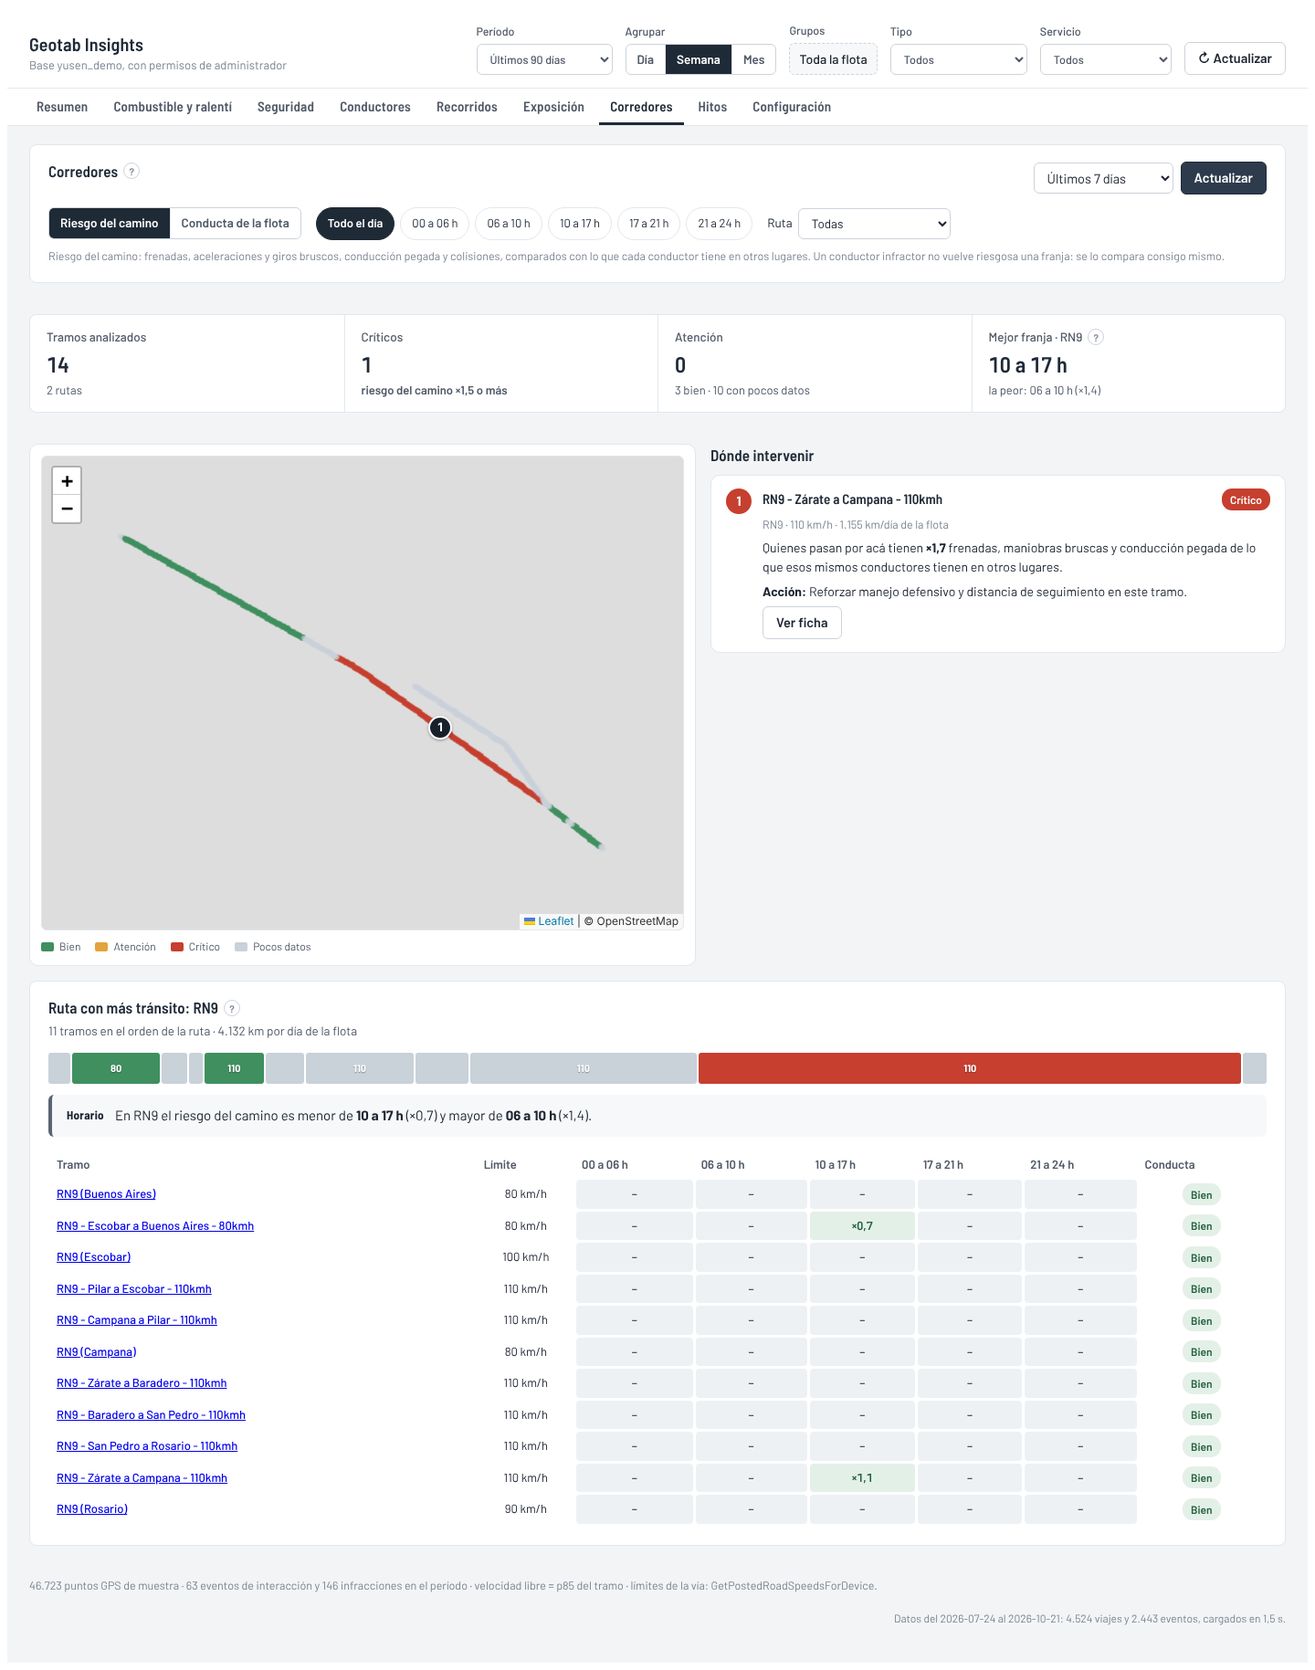
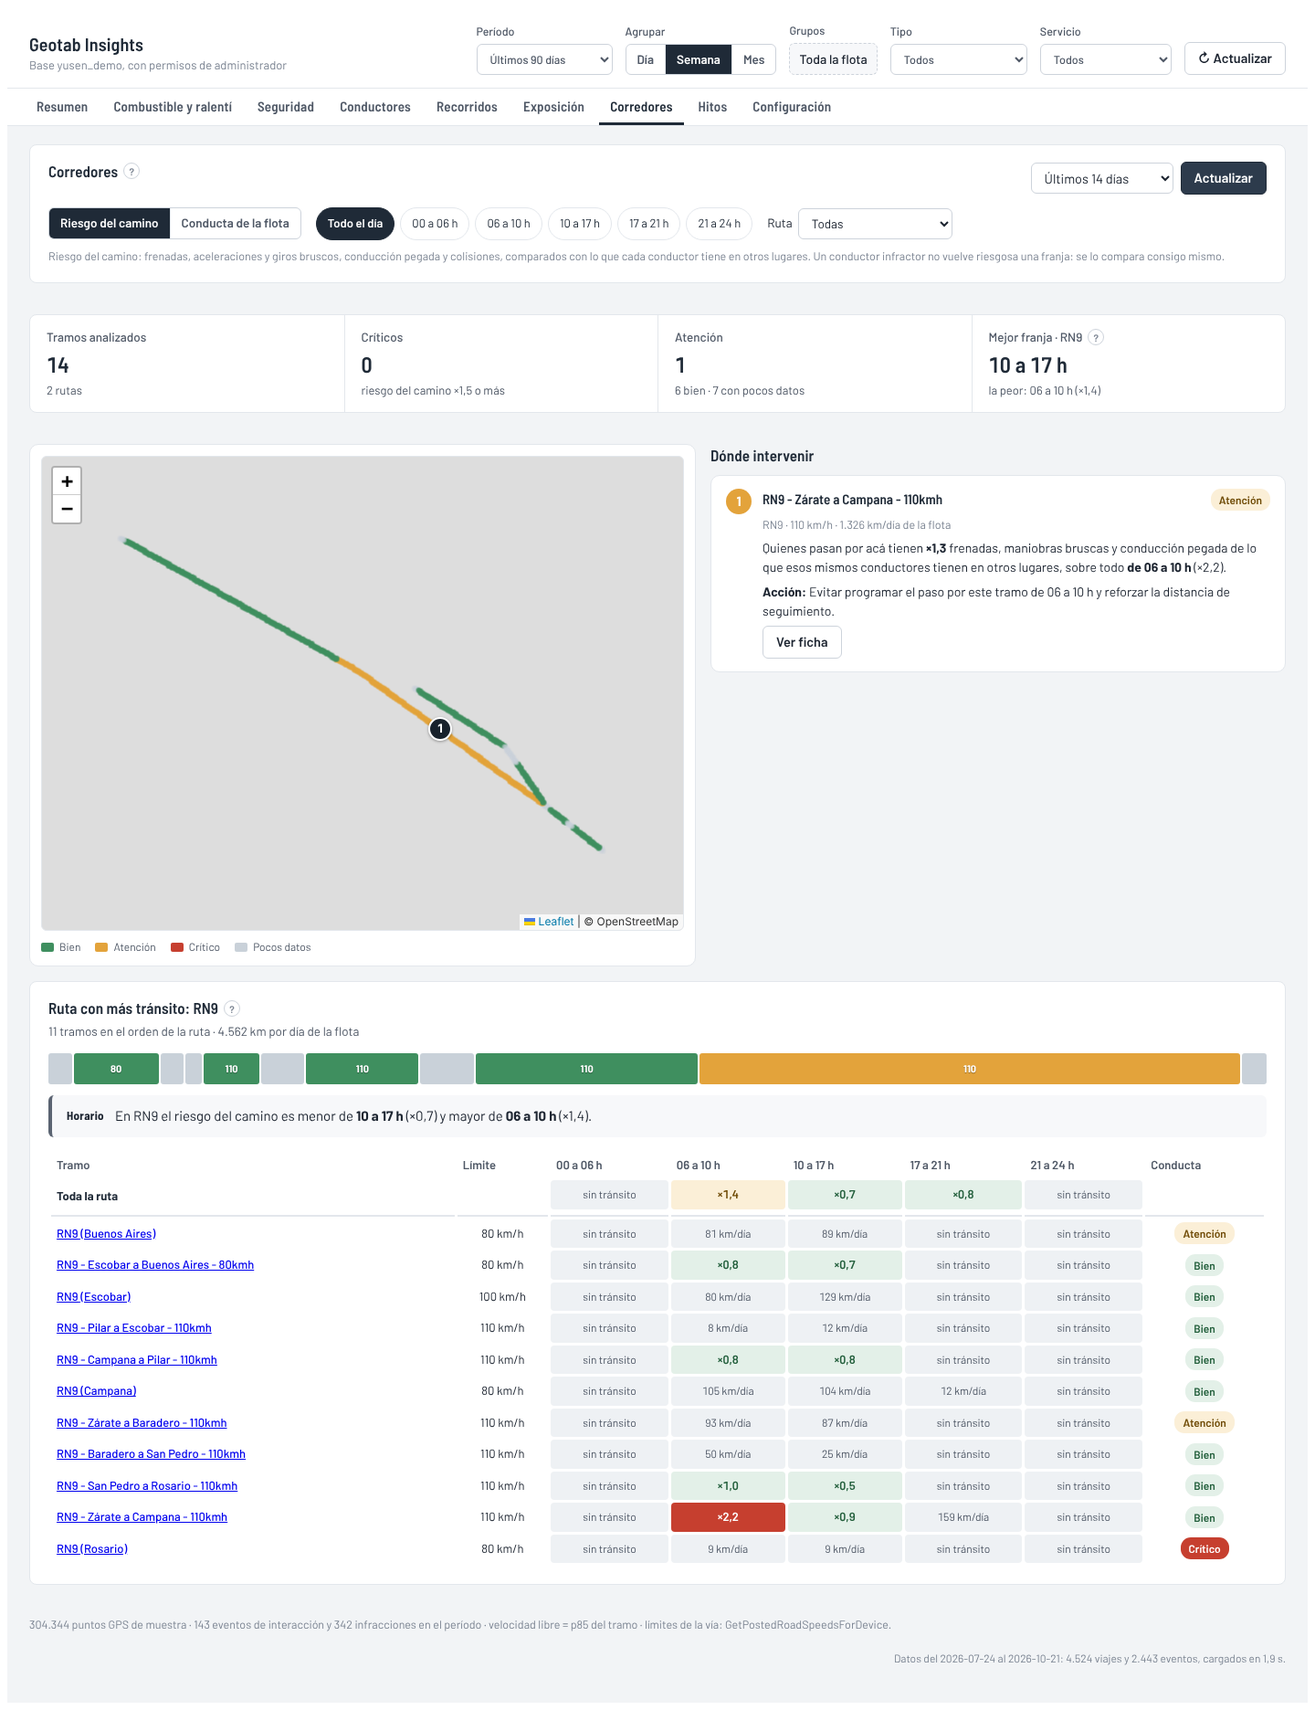
Beta Corredores: más datos en flotas chicas (15 de cada 30 min), 14 días por defecto y opción 30; punto GPS real por celda para GetAddresses; geocercas de control también por polígono (con 150 m de tolerancia) si la dirección no las trae; rutas sin geocerca partidas en sectores de ~10 km; fila 'Toda
Claude-Session: https://claude.ai/code/session_01GomakazPAm89dtzonqWZwj

diff --git a/static/js/core/roads.js b/static/js/core/roads.js
@@ -53,8 +53,9 @@
   function cellCenter(key) { const [[a, b], [c, d]] = cellBounds(key); return [(a + c) / 2, (b + d) / 2]; }
 
   // ---------- Muestreo ----------
-  function dayWindows(dk, every) {
+  function dayWindows(dk, every, win) {
     every = every || EVERY_MIN;
+    const WIN_MIN = win || 5;
     const d0 = GI.parseDayKey(dk).getTime();
     const off = (GI.parseDayKey(dk).getDate() * 7) % (every - WIN_MIN);
     const out = [];
@@ -87,6 +88,8 @@
         const km = haversineKm(p[1], p[2], q[1], q[2]);
         if ((km / dt) * 3600 > MAX_KMH) { recent = []; continue; }
         const sp = (p[3] + q[3]) / 2;
+        // punto GPS real de cada celda (para GetAddresses: uno interpolado puede caer fuera del camino)
+        if (ctx.rep) { const cq = cellOf(q[1], q[2]); if (!ctx.rep.has(cq) && q[3] > 3) ctx.rep.set(cq, [GI.round(q[1], 5), GI.round(q[2], 5)]); }
         // anda y para: la velocidad cae ≥ 25 km/h respecto del máximo de los últimos 30 s
         recent.push([p[0], p[3]]);
         while (recent.length && q[0] - recent[0][0] > 30000) recent.shift();
@@ -102,7 +105,6 @@
           const f = (st + 0.5) / steps;
           const la = p[1] + (q[1] - p[1]) * f, ln = p[2] + (q[2] - p[2]) * f;
           const cell = cellOf(la, ln);
-          if (ctx.rep && !ctx.rep.has(cell)) ctx.rep.set(cell, [GI.round(la, 5), GI.round(ln, 5)]);
           const k = bk + "|" + cell + "|" + h;
           let row = acc.get(k);
           if (!row) acc.set(k, (row = [bk, cell, h, 0, 0, 0, 0, new Array(HBINS).fill(0), 0, 0, 0, 0]));
@@ -158,7 +160,7 @@
   }
 
   async function fetchDay(api, dk, o, onWindow) {
-    const wins = dayWindows(dk, o.every).filter(w => w[0] < Date.now());
+    const wins = dayWindows(dk, o.every, o.win).filter(w => w[0] < Date.now());
     const d0 = GI.parseDayKey(dk).getTime(), d1 = d0 + 24 * 3600000;
     let limitAt = null;
     if (o.activeDevs && o.posted !== false) {
@@ -193,7 +195,7 @@
       if (di == null) { di = devs.length; devs.push(r[0]); devIdx.set(r[0], di); }
       rows.push([di, r[1], r[2], GI.round(r[3], 3), Math.round(r[4]), Math.round(r[5]), Math.round(r[6]), r[7].map(Math.round), r[8], Math.round(r[9]), Math.round(r[10]), Math.round(r[11])]);
     }
-    return { devs, rows, rep: [...rep], points, windows: wins.length, scale: (o.every || EVERY_MIN) / WIN_MIN, bucketed: !!o.scopeKey, posted: !!limitAt };
+    return { devs, rows, rep: [...rep], points, windows: wins.length, scale: (o.every || EVERY_MIN) / (o.win || WIN_MIN), bucketed: !!o.scopeKey, posted: !!limitAt };
   }
 
   function validEntry(e, dk) {
@@ -215,16 +217,19 @@
       for (const id of ids) { const ts = model.tripsByDevice.get(id) || []; if (ts.some(t => t.e >= d0 && t.s < d1)) out.push(id); }
       return out;
     };
-    if (model.devices.length <= BIG_FLEET()) return { every: EVERY_MIN, scopeKey: null, bucketOf: null, heavyOf, activeDevs };
+    // Flotas chicas (≤ 150 vehículos): 15 min de cada media hora (la mitad del
+    // GPS), así hay datos suficientes por tramo; medianas: 5 de cada 30.
+    if (model.devices.length <= 150) return { every: EVERY_MIN, win: 15, scopeKey: null, bucketOf: null, heavyOf, activeDevs };
+    if (model.devices.length <= BIG_FLEET()) return { every: EVERY_MIN, win: 5, scopeKey: null, bucketOf: null, heavyOf, activeDevs };
     const sorted = [...ids].sort();
     let hsh = 0;
     for (const id of sorted) for (let i = 0; i < id.length; i++) hsh = (hsh * 31 + id.charCodeAt(i)) | 0;
-    return { every: 60, scopeKey: sorted.length + "." + (hsh >>> 0).toString(36), bucketOf: id => (ids.has(id) ? (heavyOf(id) ? "@p" : "@l") : null), heavyOf, activeDevs, posted: false };
+    return { every: 60, win: 5, scopeKey: sorted.length + "." + (hsh >>> 0).toString(36), bucketOf: id => (ids.has(id) ? (heavyOf(id) ? "@p" : "@l") : null), heavyOf, activeDevs, posted: false };
   }
 
   async function loadRoadDays(api, database, dayKeys, onProgress, plan) {
     const o = plan || { every: EVERY_MIN };
-    const key = dk => database + "|" + CACHE_VER + "|" + (o.scopeKey ? "s" + o.scopeKey + "|" + o.every : "all") + "|" + dk;
+    const key = dk => database + "|" + CACHE_VER + "|" + (o.scopeKey ? "s" + o.scopeKey + "|" + o.every : "all") + "|w" + (o.win || WIN_MIN) + "|" + dk;
     const cached = await GI._idbGetMany("days", dayKeys.map(key));
     const out = new Map(), missing = [];
     for (const dk of dayKeys) { const e = cached.get(key(dk)); if (validEntry(e, dk)) out.set(dk, e.v); else missing.push(dk); }
@@ -243,7 +248,7 @@
   // GetAddresses sobre un punto GPS real de cada celda (no el centro, que
   // puede caer fuera del camino). Se guarda por celda 30 días.
   async function loadCellAddresses(api, database, reps, onProgress) {
-    const key = c => "cad|" + database + "|" + c;
+    const key = c => "cad2|" + database + "|" + c;
     const cells = [...reps.keys()];
     const cached = await GI._idbGetMany("locs", cells.map(key));
     const out = new Map(), missing = [];
@@ -298,7 +303,40 @@
 
   // cellsKm: Map(celda → km de todas las horas); addr: Map(celda → dirección);
   // zoneNames: Map(id → nombre). Devuelve { tramos: Map(id → tramo), byCell }.
-  function buildTramos(cellsKm, addr, zoneNames) {
+  // opts.zones: geocercas con puntos (las del catálogo) para ubicar por
+  // polígono las celdas cuya dirección no trajo zonas de control;
+  // opts.reps: punto GPS real de cada celda.
+  function buildTramos(cellsKm, addr, zoneNames, opts) {
+    const o = opts || {};
+    zoneNames = new Map(zoneNames);
+    const ctrlZones = (o.zones || []).filter(z => isControlName(z.name) && z.pts && z.pts.length >= 3);
+    for (const z of ctrlZones) if (!zoneNames.has(z.id)) zoneNames.set(z.id, z.name);
+    if (ctrlZones.length && o.reps) {
+      // zonas por polígono (todas las que contienen el punto, no solo la más chica)
+      // dentro del polígono o a menos de 150 m del borde (las geocercas de ruta son angostas)
+      const TOL = 0.15, pad = 0.002;
+      const nearEdge = (lng, lat, pts) => {
+        const kx = 111.32 * Math.cos(lat * rad), ky = 110.57;
+        for (let i = 0, j = pts.length - 1; i < pts.length; j = i++) {
+          const ax = (pts[j][0] - lng) * kx, ay = (pts[j][1] - lat) * ky, bx = (pts[i][0] - lng) * kx, by = (pts[i][1] - lat) * ky;
+          const dx = bx - ax, dy = by - ay, L2 = dx * dx + dy * dy;
+          const t = L2 > 0 ? Math.max(0, Math.min(1, -(ax * dx + ay * dy) / L2)) : 0;
+          if (Math.hypot(ax + t * dx, ay + t * dy) <= TOL) return true;
+        }
+        return false;
+      };
+      const inZones = (lng, lat) => ctrlZones.filter(z => lng >= z.bbox[0] - pad && lng <= z.bbox[2] + pad && lat >= z.bbox[1] - pad && lat <= z.bbox[3] + pad && (GI.pointInPolygon(lng, lat, z.pts) || nearEdge(lng, lat, z.pts))).map(z => z.id);
+      const out = new Map(addr);
+      for (const c of cellsKm.keys()) {
+        const p = o.reps.get(c), a = out.get(c);
+        if (!p) continue;
+        const has = a && a.zones.some(z => isControlName(zoneNames.get(z)));
+        if (has) continue;
+        const zs = inZones(p[1], p[0]);
+        if (zs.length) out.set(c, Object.assign({ city: "", street: "", num: "", zones: [] }, a || {}, { zones: [...((a && a.zones) || []), ...zs] }));
+      }
+      addr = out;
+    }
     // frecuencia de cada geocerca de control (la más específica gana)
     const freq = new Map();
     for (const c of cellsKm.keys()) { const a = addr.get(c); if (a) for (const z of a.zones) if (isControlName(zoneNames.get(z))) freq.set(z, (freq.get(z) || 0) + 1); }
@@ -349,6 +387,29 @@
       for (const c of t.cells) { const [a, b] = cellCenter(c); la += a; ln += b; }
       t.center = [la / t.cells.length, ln / t.cells.length];
       delete t.streets;
+    }
+    // Rutas sin geocerca de control: un único tramo por ruta y localidad
+    // puede tener decenas de km. Se parte en sectores de ~10 km a lo largo.
+    for (const t of [...tramos.values()]) {
+      if (t.kind !== "ruta" || t.cells.length <= 12) continue;
+      const pts = t.cells.map(c => [c, cellCenter(c)]);
+      let mx = 0, my = 0;
+      for (const [, p] of pts) { mx += p[1]; my += p[0]; }
+      mx /= pts.length; my /= pts.length;
+      let sxx = 0, syy = 0, sxy = 0;
+      for (const [, p] of pts) { const dx = p[1] - mx, dy = p[0] - my; sxx += dx * dx; syy += dy * dy; sxy += dx * dy; }
+      const ang = 0.5 * Math.atan2(2 * sxy, sxx - syy);
+      pts.sort((a, b) => ((a[1][1] - mx) * Math.cos(ang) + (a[1][0] - my) * Math.sin(ang)) - ((b[1][1] - mx) * Math.cos(ang) + (b[1][0] - my) * Math.sin(ang)));
+      if (pts[0][1][0] > pts[pts.length - 1][1][0]) pts.reverse();
+      const n = Math.ceil(pts.length / 10);
+      tramos.delete(t.id);
+      for (let k = 0; k < n; k++) {
+        const part = pts.slice(Math.floor((k * pts.length) / n), Math.floor(((k + 1) * pts.length) / n)).map(x => x[0]);
+        const id = t.id + "#" + (k + 1);
+        let la = 0, ln = 0;
+        for (const c of part) { const [a, b] = cellCenter(c); la += a; ln += b; byCell.set(c, id); }
+        tramos.set(id, Object.assign({}, t, { id, cells: part, name: t.name + " · sector " + (k + 1) + " de " + n, center: [la / part.length, ln / part.length] }));
+      }
     }
     return { tramos, byCell };
   }

diff --git a/static/js/ui/roads.js b/static/js/ui/roads.js
@@ -68,7 +68,7 @@
   }
 
   function RoadsTab({ view, api, database }) {
-    const [nDays, setNDays] = useState(7);
+    const [nDays, setNDays] = useState(14);
     const [franja, setFranja] = useState("all");
     const [lens, setLens] = useState("camino");
     const [route, setRoute] = useState("");
@@ -102,7 +102,7 @@
         let names = zoneNames;
         const missingZone = [...addr.values()].some(a => a.zones.some(z => !names.has(z)));
         if (missingZone) names = await GI.loadZoneNames(api, database, true);
-        const built = GI.buildTramos(cellsKm, addr, names);
+        const built = GI.buildTramos(cellsKm, addr, names, { zones: view.model.cat.zones || [], reps });
         const dset = new Set(dayKeys);
         const all = view.events.filter(e => e.w > 0 && view.ids.has(e.d) && dset.has(GI.dayKey(e.t))).sort((a, b) => a.t - b.t);
         const step = all.length / EV_CAP;
@@ -130,9 +130,9 @@
 
     return html`<div className="rd">
       <${Panel} title="Corredores"
-        hint="Separa dos cosas: el RIESGO DEL CAMINO (lo que pasa alrededor: tránsito, frenadas y maniobras de otros, noche), medido comparando a cada conductor contra sí mismo; y la CONDUCTA DE LA FLOTA (excesos, celular, cinturón…) en cada tramo. Los tramos salen de la dirección de Geotab (GetAddresses): en ruta, la geocerca de control que los contiene; en zona urbana, la calle y la ciudad. Se muestrea el GPS de toda la flota (5 minutos de cada media hora) y se guarda por día en este navegador."
+        hint="Separa dos cosas: el RIESGO DEL CAMINO (lo que pasa alrededor: tránsito, frenadas y maniobras de otros, noche), medido comparando a cada conductor contra sí mismo; y la CONDUCTA DE LA FLOTA (excesos, celular, cinturón…) en cada tramo. Los tramos salen de la dirección de Geotab (GetAddresses): en ruta, la geocerca de control que los contiene; en zona urbana, la calle y la ciudad. Se muestrea el GPS de toda la flota (en flotas chicas, la mitad del tiempo; en grandes, 5 minutos de cada media hora u hora) y se guarda por día en este navegador."
         actions=${html`<select value=${nDays} onChange=${e => setNDays(+e.target.value)} aria-label="Días a analizar">
-            ${[7, 14].map(n => html`<option key=${n} value=${n}>Últimos ${n} días</option>`)}
+            ${[7, 14, 30].map(n => html`<option key=${n} value=${n}>Últimos ${n} días</option>`)}
           </select>
           <button className="btn primary" disabled=${progress != null || !dayKeys.length} onClick=${load}>${data ? "Actualizar" : "Analizar corredores"}</button>`}>
         ${progress ? html`<${GI.Progress} value=${progress.p} label=${progress.label} />` : null}
@@ -179,7 +179,7 @@
       </div>` : null}
 
       ${selT ? html`<${TramoDetail} x=${selT} rm=${rm} lens=${lens} model=${view.model} onClose=${() => setSel(null)} />` : null}
-      ${rm && shownRoute ? html`<${RouteView} r=${shownRoute} lens=${lens} sel=${sel} onPick=${setSel} explicit=${!!curRoute} />` : null}
+      ${rm && shownRoute ? html`<${RouteView} r=${shownRoute} lens=${lens} sel=${sel} onPick=${setSel} explicit=${!!curRoute} nDays=${rm.nDays} />` : null}
       ${rm ? html`<p className="muted small">${n0(data.points)} puntos GPS de muestra · ${n0(rm.envEvents)} eventos de interacción y ${n0(data.all.length)} infracciones en el período${data.evScale > 1 ? " (se ubicó una muestra pareja de " + n0(data.evs.length) + ")" : ""} · velocidad libre = p85 del tramo · ${rm.posted ? "límites de la vía: GetPostedRoadSpeedsForDevice" : "límites: geocercas"}.</p>` : null}
     </div>`;
   }
@@ -228,7 +228,7 @@
     </section>`;
   }
 
-  function RouteView({ r, lens, sel, onPick, explicit }) {
+  function RouteView({ r, lens, sel, onPick, explicit, nDays }) {
     const total = r.tramos.reduce((s, x) => s + x.cells.length, 0) || 1;
     return html`<${Panel} title=${(explicit ? "" : "Ruta con más tránsito: ") + r.name}
       sub=${n0(r.tramos.length) + " tramos en el orden de la ruta · " + n0(r.kmDay) + " km por día de la flota"}
@@ -236,14 +236,16 @@
       <div className="rd-strip" role="list">
         ${r.tramos.map(x => { const lv = levelOf(x, lens); return html`<button key=${x.id} role="listitem" className=${"rd-seg" + (sel === x.id ? " on" : "")} style=${{ flexGrow: x.cells.length, background: LV[lv].color }} title=${x.name + " · " + LV[lv].label} aria-label=${x.name + ": " + LV[lv].label} onClick=${() => onPick(x.id)}>${x.limit && x.cells.length / total > 0.04 ? x.limit : ""}</button>`; })}
       </div>
+      ${!r.franjas.some(f => f.idx != null) ? html`<${Info} tone="warn">Con ${n0(nDays)} días todavía no hay suficientes frenadas, maniobras y eventos de distancia en ${r.name} para comparar franjas (hacen falta al menos 3 esperables por tramo y franja). Probá con 30 días; mientras tanto, cada celda muestra cuánto se circula.<//>` : null}
       ${r.best && r.worst && r.best.key !== r.worst.key ? html`<div className="verdict-line"><span className="vtag">Horario</span><span>En ${r.name} el riesgo del camino es menor de <b>${r.best.label}</b> (${fx(r.best.idx)}) y mayor de <b>${r.worst.label}</b> (${fx(r.worst.idx)}).</span></div>` : null}
       <div className="rd-matrix-wrap">
         <table className="rd-matrix">
           <thead><tr><th scope="col">Tramo</th><th scope="col">Límite</th>${GI.ROAD_FRANJAS.map(f => html`<th key=${f.key} scope="col">${f.label}</th>`)}<th scope="col">Conducta</th></tr></thead>
-          <tbody>${r.tramos.map(x => html`<tr key=${x.id} className=${sel === x.id ? "on" : ""} onClick=${() => onPick(x.id)}>
+          <tbody><tr className="rd-total"><th scope="row">Toda la ruta</th><td></td>${r.franjas.map(f => { const lv = f.idx == null ? "nd" : f.idx >= 1.5 ? "cr" : f.idx >= 1.2 ? "at" : "ok"; return html`<td key=${f.key}><span className="rd-cell" title=${n0(f.km / nDays) + " km por día de la flota"} style=${{ background: LV[lv].bg, color: LV[lv].fg }}>${f.idx == null ? html`<span className="rd-nd">${f.km > 0 ? n0(f.km / nDays) + " km/día" : "sin tránsito"}</span>` : fx(f.idx)}</span></td>`; })}<td></td></tr>
+          ${r.tramos.map(x => html`<tr key=${x.id} className=${sel === x.id ? "on" : ""} onClick=${() => onPick(x.id)}>
             <th scope="row"><a href="#" onClick=${e => { e.preventDefault(); onPick(x.id); }}>${x.name}</a></th>
             <td>${x.limit ? x.limit + " km/h" : "–"}</td>
-            ${x.franjas.map(f => html`<td key=${f.key}><span className="rd-cell" style=${{ background: LV[f.envLevel].bg, color: LV[f.envLevel].fg }}>${f.envConf === "baja" ? "–" : fx(f.envIdx)}</span></td>`)}
+            ${x.franjas.map(f => html`<td key=${f.key}><span className="rd-cell" title=${n0(f.km / nDays) + " km por día de la flota · " + n1(f.obs) + " eventos de interacción (esperables " + n1(f.exp) + ")"} style=${{ background: LV[f.envLevel].bg, color: LV[f.envLevel].fg }}>${f.envConf === "baja" ? html`<span className="rd-nd">${f.km > 0 ? n0(f.km / nDays) + " km/día" : "sin tránsito"}</span>` : fx(f.envIdx)}</span></td>`)}
             <td>${pill(x.condLevel)}</td>
           </tr>`)}</tbody>
         </table>

diff --git a/static/index.html b/static/index.html
@@ -4,7 +4,7 @@
 <meta charset="UTF-8" />
 <title>Geotab Insights</title>
 <meta name="viewport" content="width=device-width, initial-scale=1" />
-<link rel="stylesheet" href="style.css?v=3.15.1-beta">
+<link rel="stylesheet" href="style.css?v=3.15.2-beta">
 </head>
 <body>
 <div id="gi3-root"><div class="splash">Esta página está pensada para abrirse como Add-In dentro de MyGeotab.</div></div>
@@ -16,24 +16,24 @@
 <script src="vendor/leaflet.js"></script>
 <script src="vendor/leaflet-heat.js"></script>
 
-<script src="js/core/util.js?v=3.15.1-beta"></script>
-<script src="js/core/catalog.js?v=3.15.1-beta"></script>
-<script src="js/core/storage.js?v=3.15.1-beta"></script>
-<script src="js/core/data.js?v=3.15.1-beta"></script>
-<script src="js/core/model.js?v=3.15.1-beta"></script>
-<script src="js/core/exposure.js?v=3.15.1-beta"></script>
-<script src="js/core/riskfactors.js?v=3.15.1-beta"></script>
-<script src="js/core/hotspots.js?v=3.15.1-beta"></script>
-<script src="js/core/roads.js?v=3.15.1-beta"></script>
-<script src="js/core/benchmark.js?v=3.15.1-beta"></script>
-<script src="js/ui/components.js?v=3.15.1-beta"></script>
-<script src="js/ui/glossary.js?v=3.15.1-beta"></script>
-<script src="js/ui/tabs.js?v=3.15.1-beta"></script>
-<script src="js/ui/exposure.js?v=3.15.1-beta"></script>
-<script src="js/ui/myperf.js?v=3.15.1-beta"></script>
-<script src="js/ui/roads.js?v=3.15.1-beta"></script>
-<script src="js/ui/milestones.js?v=3.15.1-beta"></script>
-<script src="js/ui/config.js?v=3.15.1-beta"></script>
-<script src="js/ui/app.js?v=3.15.1-beta"></script>
+<script src="js/core/util.js?v=3.15.2-beta"></script>
+<script src="js/core/catalog.js?v=3.15.2-beta"></script>
+<script src="js/core/storage.js?v=3.15.2-beta"></script>
+<script src="js/core/data.js?v=3.15.2-beta"></script>
+<script src="js/core/model.js?v=3.15.2-beta"></script>
+<script src="js/core/exposure.js?v=3.15.2-beta"></script>
+<script src="js/core/riskfactors.js?v=3.15.2-beta"></script>
+<script src="js/core/hotspots.js?v=3.15.2-beta"></script>
+<script src="js/core/roads.js?v=3.15.2-beta"></script>
+<script src="js/core/benchmark.js?v=3.15.2-beta"></script>
+<script src="js/ui/components.js?v=3.15.2-beta"></script>
+<script src="js/ui/glossary.js?v=3.15.2-beta"></script>
+<script src="js/ui/tabs.js?v=3.15.2-beta"></script>
+<script src="js/ui/exposure.js?v=3.15.2-beta"></script>
+<script src="js/ui/myperf.js?v=3.15.2-beta"></script>
+<script src="js/ui/roads.js?v=3.15.2-beta"></script>
+<script src="js/ui/milestones.js?v=3.15.2-beta"></script>
+<script src="js/ui/config.js?v=3.15.2-beta"></script>
+<script src="js/ui/app.js?v=3.15.2-beta"></script>
 </body>
 </html>

diff --git a/static/style.src.css b/static/style.src.css
@@ -435,3 +435,6 @@ input:disabled, select:disabled { background: var(--sunken); color: var(--muted)
 .rd-matrix tr.on th { box-shadow: inset 3px 0 0 #18212b; }
 .rd-matrix tbody tr { cursor: pointer; }
 .rd-cell { display: block; padding: 6px 4px; border-radius: 4px; font-weight: 600; font-variant-numeric: tabular-nums; }
+.rd-nd { font-weight: 400; font-size: 12px; color: var(--text-2); }
+.rd-matrix tr.rd-total th { font-weight: 700; }
+.rd-matrix tr.rd-total td, .rd-matrix tr.rd-total th { border-bottom: 2px solid var(--rule); padding-bottom: 6px; }

diff --git a/static/style.css b/static/style.css
@@ -1049,3 +1049,6 @@
 #gi3-root .rd-matrix tr.on th { box-shadow: inset 3px 0 0 #18212b; }
 #gi3-root .rd-matrix tbody tr { cursor: pointer; }
 #gi3-root .rd-cell { display: block; padding: 6px 4px; border-radius: 4px; font-weight: 600; font-variant-numeric: tabular-nums; }
+#gi3-root .rd-nd { font-weight: 400; font-size: 12px; color: var(--text-2); }
+#gi3-root .rd-matrix tr.rd-total th { font-weight: 700; }
+#gi3-root .rd-matrix tr.rd-total td, #gi3-root .rd-matrix tr.rd-total th { border-bottom: 2px solid var(--rule); padding-bottom: 6px; }
